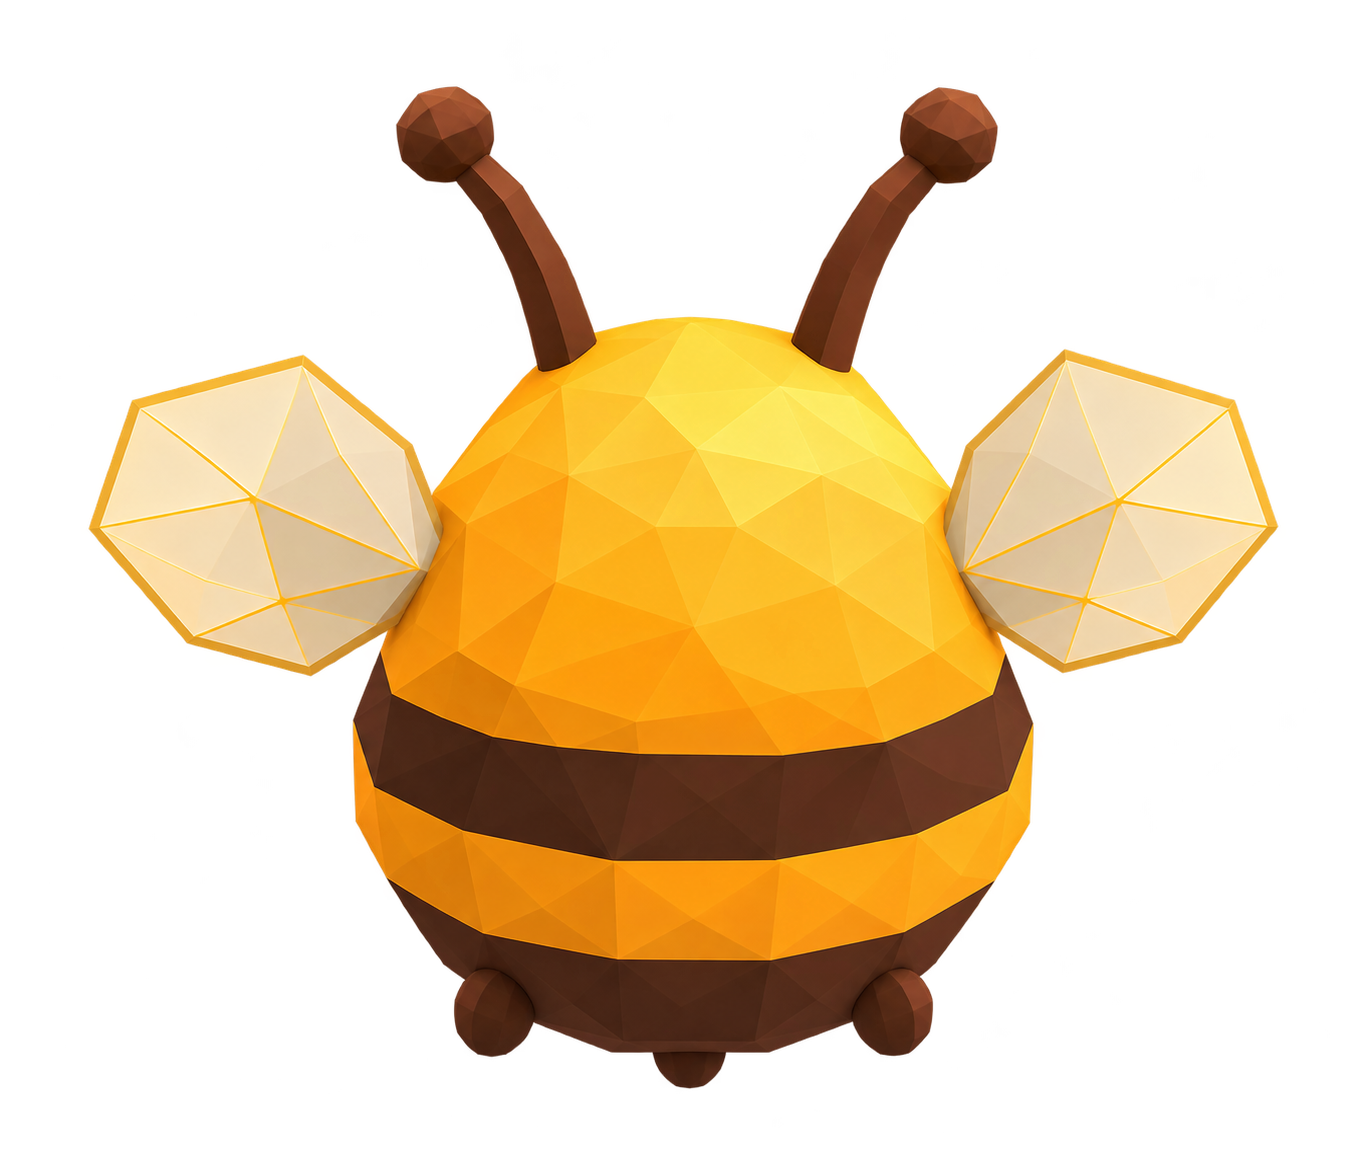
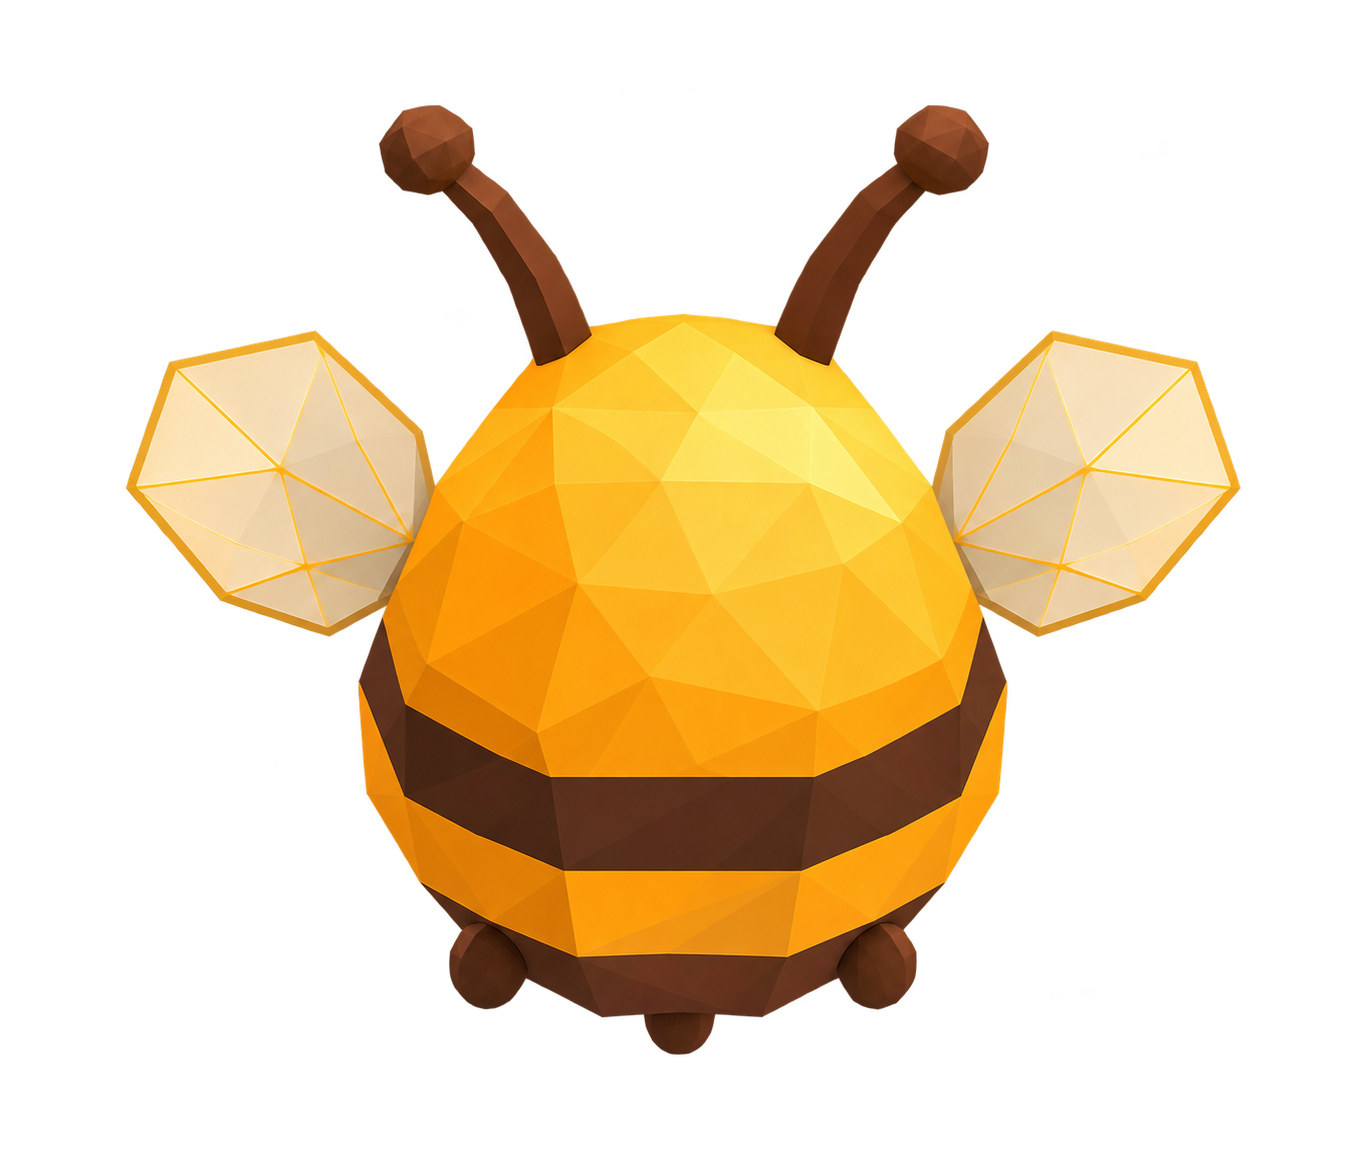
fix(art): match Zhuzha back proportions to approved front

diff --git a/design/3d/turnaround/README.ru.md b/design/3d/turnaround/README.ru.md
@@ -33,3 +33,7 @@ side: исходный q3-front + принятый front. q3-back: они же +
 Изучены HANDOFF_CLAUDE.ru.md, design/art/BEE_STYLE_AND_MOTION.ru.md, outputs/ASSETS_CATALOG.ru.md, оба исходных рисунка, сравнение отклонённого 3D, актуальное beePreview и скриншот владельца.
 design/3d/zhuzha отсутствует в текущей ветке. Игра, 2D-ассеты и main не менялись, PR не сливался.
 Следующий шаг: оценка владельцем профиля и заднего объёма; затем устранение отмеченных расхождений крыльев/проекции перед использованием как инженерного референса.
+
+
+## Коррекция пропорций вида сзади
+Владелец указал, что верны пропорции front, а back слишком широкий. Back повторно сгенерирован напрямую по front; silhouette, размеры крыльев/усиков и высота полос заданы по front. Старый back сохранён в archive-new-views. compare-front-back.png использует одинаковое уменьшение целых холстов 1366×1151, без индивидуального подгона масштаба: это позволяет видеть реальную разницу. Полного пиксельного совпадения генерация не обеспечивает. Новый back ожидает оценки, rear-q3/top пока НЕ исправлены по этой новой версии.
